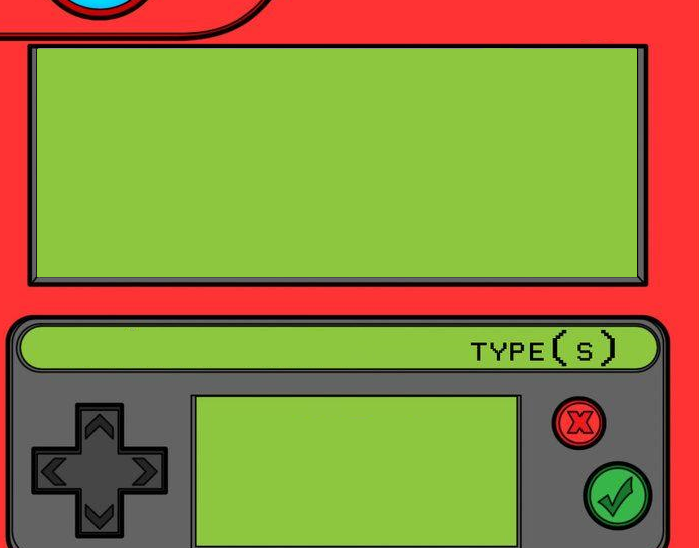
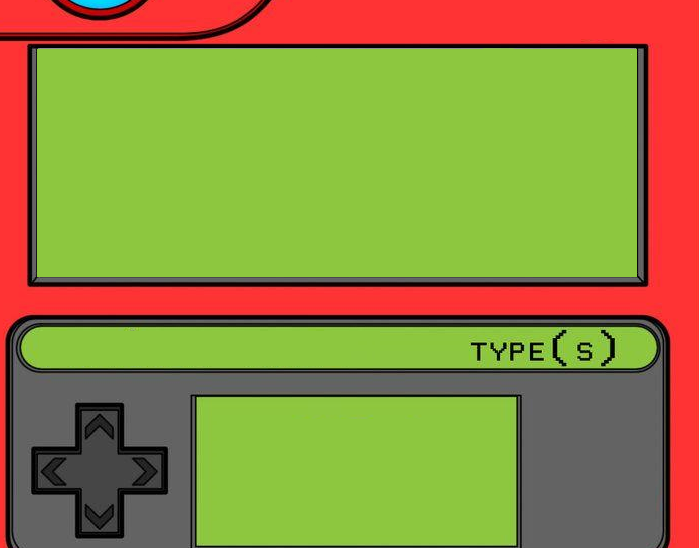
I'm back baby!

Changed region(s): [[0.7811, 0.7135, 0.9313, 0.9927]]

diff --git a/static/main.css b/static/main.css
@@ -500,7 +500,7 @@ a{color:inherit;text-decoration:none}
 	margin: 2.5vh 0 0 10vw;
 }
 
-@media only screen and (max-width: 1347px){
+@media only screen and (max-width: 1100px){
 	.communicator__background{
 		background-image: url('/static/background_1024--new.png') !important;
 	}
@@ -576,6 +576,7 @@ a{color:inherit;text-decoration:none}
 	.container__textarea{
 		justify-content: flex-end;
 		align-items: flex-end;
+		grid-column: start-col 1 / -1;
 	}
 	#container__textarea{
 		max-width: 70%;
@@ -584,9 +585,10 @@ a{color:inherit;text-decoration:none}
 		border: none;
 		box-shadow:0 12px 15px 0 rgba(0,0,0,.24),0 17px 50px 0 rgba(0,0,0,.24);
 
+		align-self: flex-start;
 		order: 3;
 		position: absolute;
-		transform: translate(0, -16vh);
+		transform: translate(0, -17vh);
 	}
 	#container__textarea:placeholder-shown{
 		text-align: center;
@@ -595,8 +597,36 @@ a{color:inherit;text-decoration:none}
 		font-size: 24px;
 	}
 	#container__textarea::placeholder{
-		margin: 0 auto;
+		text-align: center;
 	}
+	.container__textarea-btn{
+		align-self: flex-end;
+		background: rgb(141, 199, 63);
+
+		display:block;
+		width: 100px;
+		height: 100px;
+		border-radius: 50%;
+
+		will-change: all;
+		transition: all .3s;
+		animation: moveInBottom 0.65s ease-out 0.75s;
+		animation-fill-mode: backwards;
+		}
+	.container__textarea-btn:hover{
+		transform: translateY(-0.3rem);
+		box-shadow:  0px 0px 4px 5px rgba(0,0,0,0.75);
+		background-color: rgb(0, 160, 8);
+		color: #000;
+		transform: scaleX(0.85) scaleY(0.85);
+		opacity: 0.8;
+		}
+	.container__textarea-btn:active,
+	.container__textarea-btn:focus{
+		outline: none;
+		transform: translateY(-0.1rem);
+		box-shadow: 0 0.5rem 1rem rgba(0, 0, 0, 0.2);
+		}
 }
 @media only screen and (min-width:1348px) and (max-width: 1520px){
 	.container{
@@ -623,7 +653,7 @@ a{color:inherit;text-decoration:none}
 		display:block;
 		width: 80px;
 		height: 80px;
-		border-radius: 100%;
+		border-radius: 50%;
 		margin-left: 8vw;
 
 		will-change: all;

diff --git a/static/base.js b/static/base.js
@@ -112,8 +112,10 @@ document.addEventListener('DOMContentLoaded', () => {
 
                     // Pop up send poke();
                     ['keydown', 'click'].forEach(evt =>
-                        document.getElementById(eachUser.buttonElement).addEventListener(evt, event => {
-                            if ((evt === 'keydown' && event.key === "Enter") || evt === 'click'){
+                        document
+                        .getElementById(eachUser.buttonElement)
+                        .addEventListener(evt, event => {
+                            if ((evt === 'keyup' && event.keyCode === 13) || evt === 'click'){
                                 const pokeMessage = document.getElementById(eachUser.inputElement).value;
                                 private_socket.emit('poke message', {
                                     'username': user.name,
@@ -135,6 +137,10 @@ document.addEventListener('DOMContentLoaded', () => {
 
     private_socket.on('poked',  message => {
         swal(`${message.username}`, `${message.message}`, "info");
-    })
+    });
+
+    socket.on('send users', users  => {
+        console.log(users);
+    });
 });
 

diff --git a/application.py b/application.py
@@ -150,8 +150,9 @@ def connected(data):
     sessionID = request.sid
     randomID = str(randint(1, 999999))
     usersOnline[name] = sessionID
-    #usersOnline.append({name : sessionID})
-    print(f'randomID : {randomID}')
+    usersOnline.update({name : sessionID})
+
+    print(f'usersOnline : {usersOnline}')
     socketio.emit('hello response', {"name" : name,
                                      "sessionID": sessionID,
                                      "randomID": randomID
